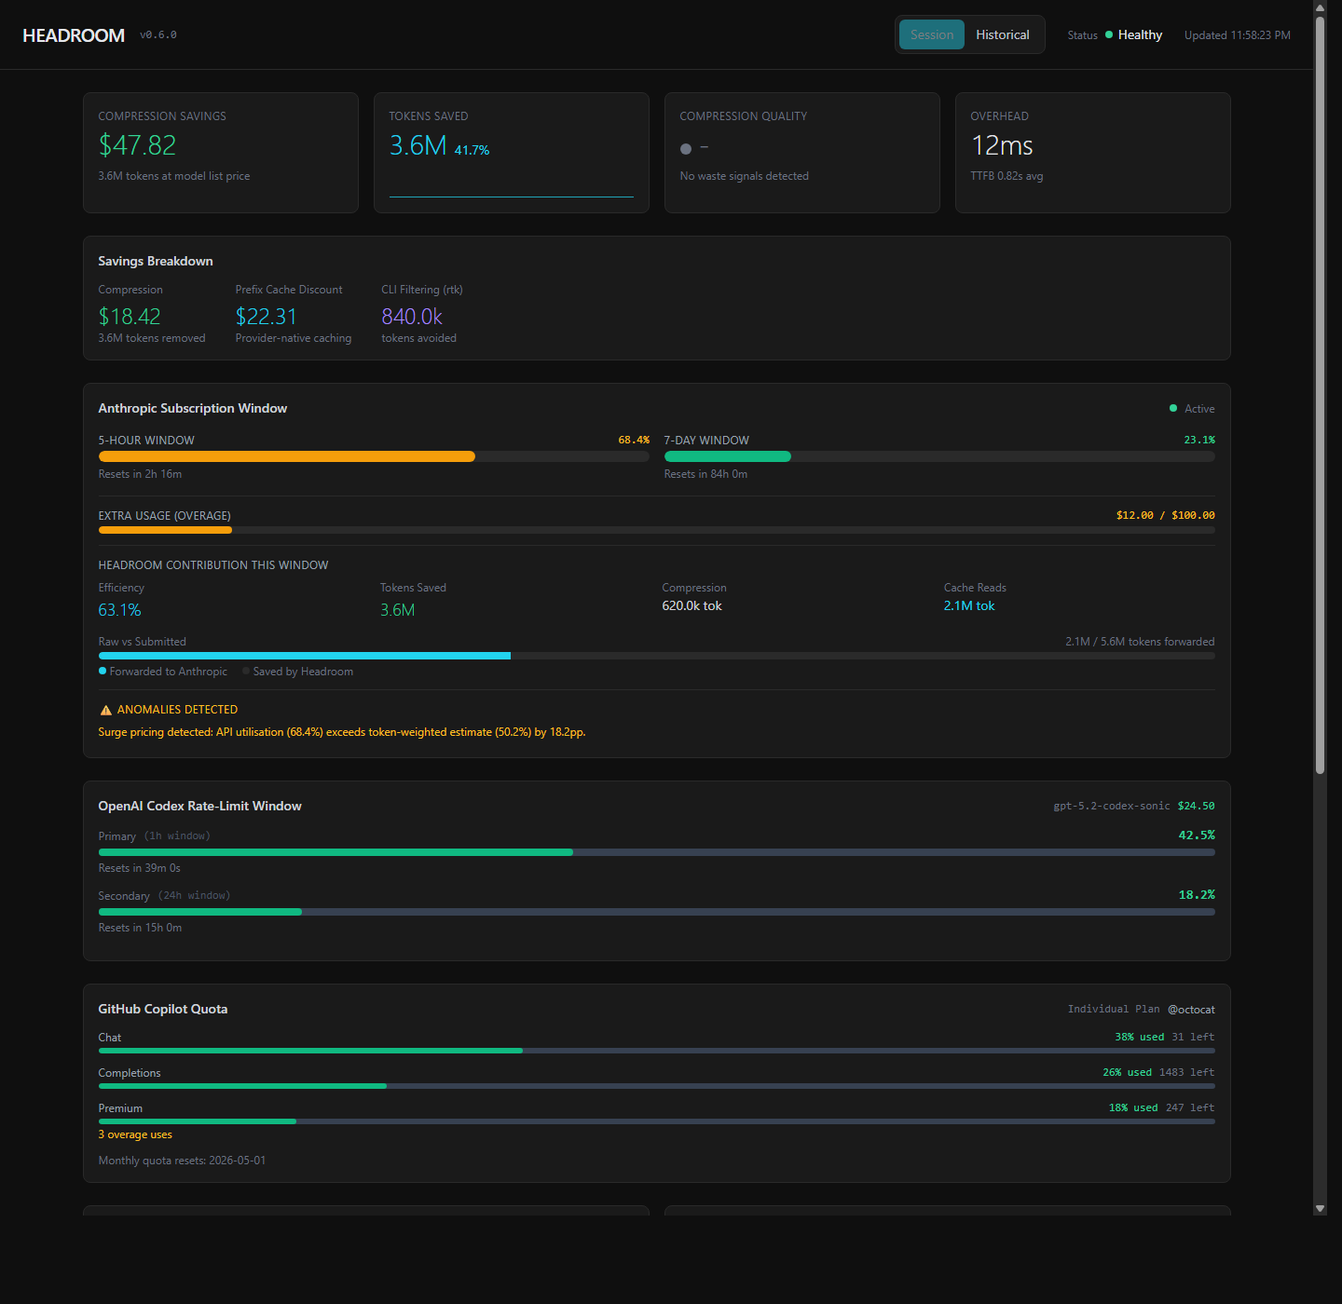
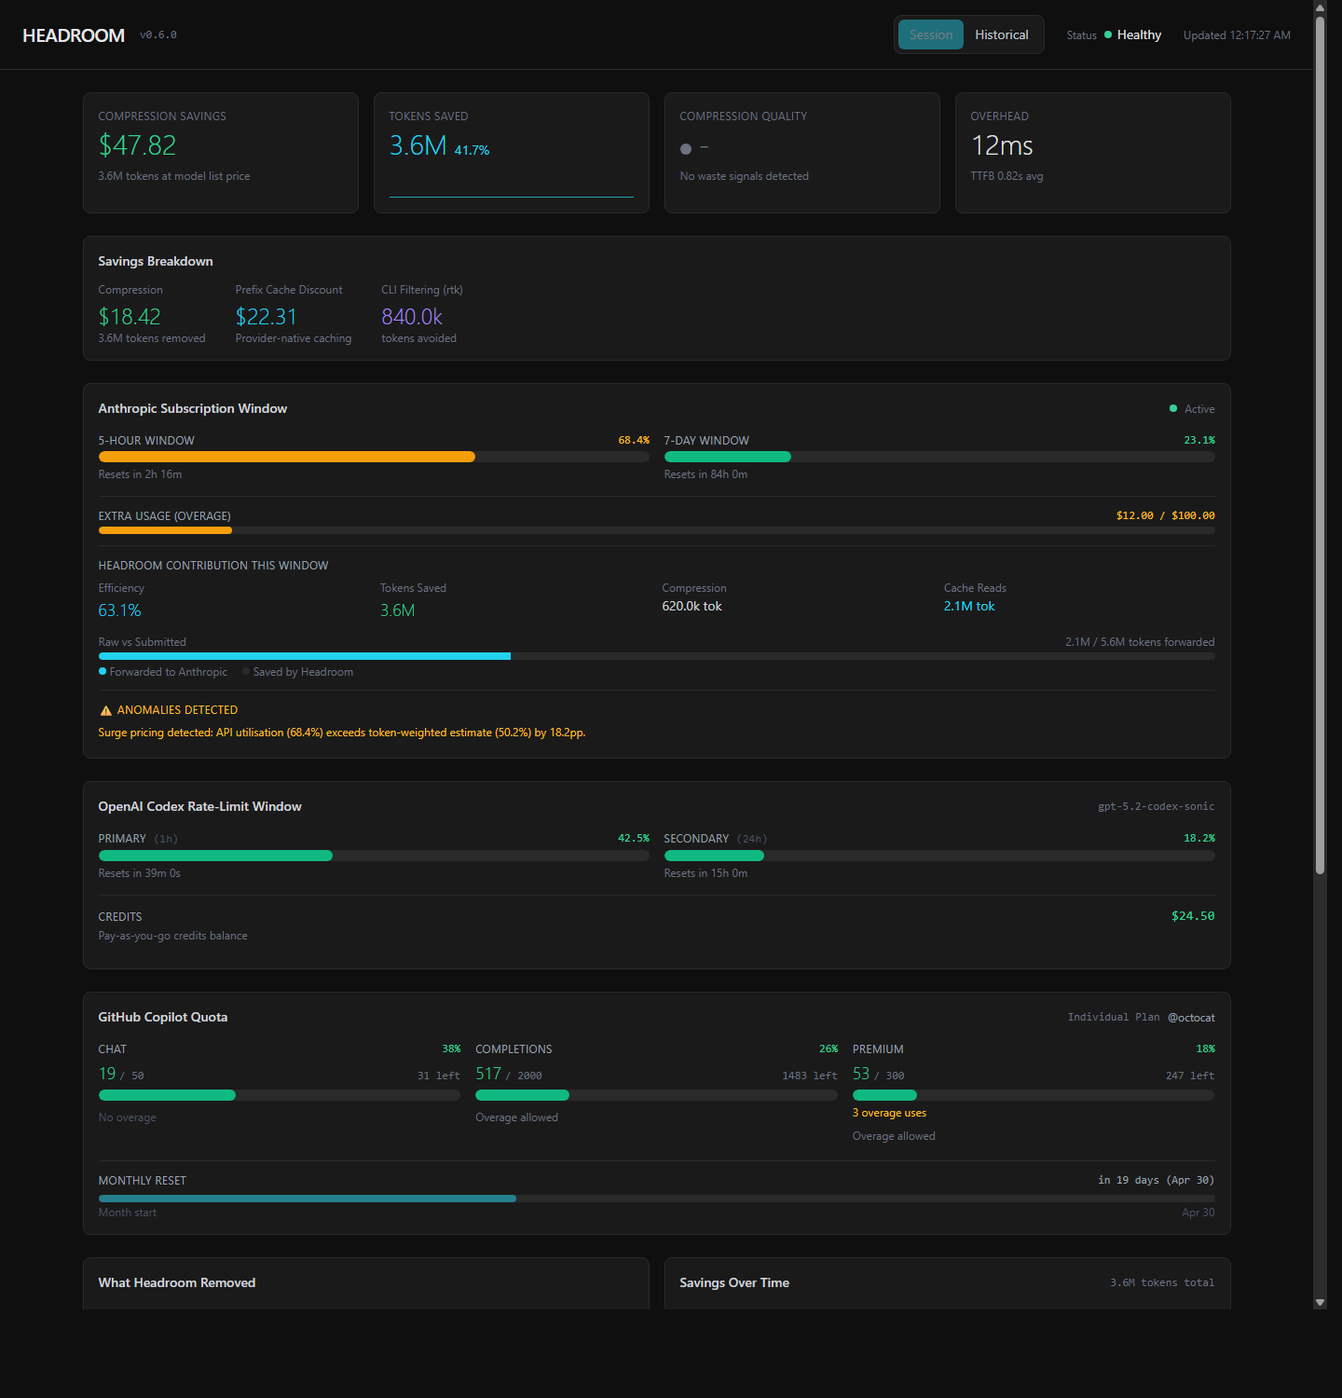
feat(dashboard): expand Codex and Copilot cards to match Anthropic card layout
- Codex: 2-column Primary/Secondary window grid (h-3 bars, window labels,
  reset countdowns); Credits moved to bordered section like Anthropic
  extra-usage panel
- Copilot: 3-column category grid (Chat/Completions/Premium) with big
  used/entitlement numbers, color-coded % bars, overage-permitted status
  per category; Monthly Reset section with month-elapsed progress bar and
  formatMonthlyReset() helper
- All three provider cards now share consistent visual language:
  uppercase section labels, h-3 progress bars, border-t dividers

diff --git a/headroom/dashboard/templates/dashboard.html b/headroom/dashboard/templates/dashboard.html
@@ -300,69 +300,80 @@
         <!-- Codex Rate-Limit Window -->
         <template x-if="stats.codex_rate_limits && stats.codex_rate_limits.primary">
             <div class="bg-surface rounded-lg p-4 border border-border mb-6">
-                <div class="flex justify-between items-center mb-3">
+                <div class="flex justify-between items-center mb-4">
                     <div class="text-sm font-medium text-gray-300">OpenAI Codex Rate-Limit Window</div>
-                    <div class="flex items-center gap-2">
-                        <template x-if="stats.codex_rate_limits.limit_name">
-                            <span class="text-xs text-gray-500 font-mono" x-text="stats.codex_rate_limits.limit_name"></span>
-                        </template>
-                        <template x-if="stats.codex_rate_limits.credits">
-                            <span class="text-xs font-mono"
-                                  :class="stats.codex_rate_limits.credits.unlimited ? 'text-purple-400' : stats.codex_rate_limits.credits.has_credits ? 'text-emerald-400' : 'text-red-400'"
-                                  x-text="stats.codex_rate_limits.credits.unlimited ? '∞ Unlimited' : stats.codex_rate_limits.credits.balance ? stats.codex_rate_limits.credits.balance : (stats.codex_rate_limits.credits.has_credits ? 'Credits' : 'No Credits')"></span>
-                        </template>
-                    </div>
-                </div>
-                <!-- Primary window -->
-                <div class="mb-3">
-                    <div class="flex justify-between items-center mb-1">
-                        <div class="flex items-center gap-2">
-                            <span class="text-xs text-gray-500">Primary</span>
-                            <template x-if="stats.codex_rate_limits.primary.window_label">
-                                <span class="text-xs text-gray-600 font-mono"
-                                      x-text="'(' + stats.codex_rate_limits.primary.window_label + ' window)'"></span>
-                            </template>
-                        </div>
-                        <span class="text-sm font-mono font-semibold"
-                              :class="(stats.codex_rate_limits.primary.used_percent||0) > 80 ? 'text-red-400' : (stats.codex_rate_limits.primary.used_percent||0) > 60 ? 'text-amber-400' : 'text-emerald-400'"
-                              x-text="(stats.codex_rate_limits.primary.used_percent||0).toFixed(1) + '%'"></span>
-                    </div>
-                    <div class="w-full bg-gray-700 rounded-full h-2">
-                        <div class="h-2 rounded-full transition-all duration-500"
-                             :class="(stats.codex_rate_limits.primary.used_percent||0) > 80 ? 'bg-red-500' : (stats.codex_rate_limits.primary.used_percent||0) > 60 ? 'bg-amber-500' : 'bg-emerald-500'"
-                             :style="'width: ' + Math.min(stats.codex_rate_limits.primary.used_percent||0, 100) + '%'"></div>
-                    </div>
-                    <template x-if="stats.codex_rate_limits.primary.seconds_until_reset !== null">
-                        <div class="text-xs text-gray-500 mt-1"
-                             x-text="'Resets in ' + formatResetTime(stats.codex_rate_limits.primary.seconds_until_reset)"></div>
+                    <template x-if="stats.codex_rate_limits.limit_name">
+                        <span class="text-xs text-gray-500 font-mono" x-text="stats.codex_rate_limits.limit_name"></span>
                     </template>
                 </div>
-                <!-- Secondary window (if present) -->
-                <template x-if="stats.codex_rate_limits.secondary">
-                    <div class="mb-3">
-                        <div class="flex justify-between items-center mb-1">
-                            <div class="flex items-center gap-2">
-                                <span class="text-xs text-gray-500">Secondary</span>
-                                <template x-if="stats.codex_rate_limits.secondary.window_label">
-                                    <span class="text-xs text-gray-600 font-mono"
-                                          x-text="'(' + stats.codex_rate_limits.secondary.window_label + ' window)'"></span>
+
+                <!-- Primary / Secondary window grid (mirrors Anthropic 5h/7d layout) -->
+                <div class="grid grid-cols-1 md:grid-cols-2 gap-4 mb-4">
+                    <!-- Primary window -->
+                    <div>
+                        <div class="flex justify-between text-xs mb-1">
+                            <span class="text-gray-400 uppercase tracking-wide">Primary
+                                <template x-if="stats.codex_rate_limits.primary.window_label">
+                                    <span class="text-gray-600 normal-case font-mono ml-1"
+                                          x-text="'(' + stats.codex_rate_limits.primary.window_label + ')'"></span>
                                 </template>
-                            </div>
-                            <span class="text-sm font-mono font-semibold"
-                                  :class="(stats.codex_rate_limits.secondary.used_percent||0) > 80 ? 'text-red-400' : (stats.codex_rate_limits.secondary.used_percent||0) > 60 ? 'text-amber-400' : 'text-emerald-400'"
-                                  x-text="(stats.codex_rate_limits.secondary.used_percent||0).toFixed(1) + '%'"></span>
+                            </span>
+                            <span class="tabular-nums font-mono"
+                                  :class="(stats.codex_rate_limits.primary.used_percent||0) > 80 ? 'text-red-400' : (stats.codex_rate_limits.primary.used_percent||0) > 60 ? 'text-amber-400' : 'text-emerald-400'"
+                                  x-text="(stats.codex_rate_limits.primary.used_percent||0).toFixed(1) + '%'"></span>
                         </div>
-                        <div class="w-full bg-gray-700 rounded-full h-2">
-                            <div class="h-2 rounded-full transition-all duration-500"
-                                 :class="(stats.codex_rate_limits.secondary.used_percent||0) > 80 ? 'bg-red-500' : (stats.codex_rate_limits.secondary.used_percent||0) > 60 ? 'bg-amber-500' : 'bg-emerald-500'"
-                                 :style="'width: ' + Math.min(stats.codex_rate_limits.secondary.used_percent||0, 100) + '%'"></div>
+                        <div class="w-full h-3 bg-border rounded-full overflow-hidden">
+                            <div class="h-full rounded-full transition-all duration-500"
+                                 :class="(stats.codex_rate_limits.primary.used_percent||0) > 80 ? 'bg-red-500' : (stats.codex_rate_limits.primary.used_percent||0) > 60 ? 'bg-amber-500' : 'bg-emerald-500'"
+                                 :style="'width: ' + Math.min(stats.codex_rate_limits.primary.used_percent||0, 100) + '%'"></div>
                         </div>
-                        <template x-if="stats.codex_rate_limits.secondary.seconds_until_reset !== null">
+                        <template x-if="stats.codex_rate_limits.primary.seconds_until_reset !== null">
                             <div class="text-xs text-gray-500 mt-1"
-                                 x-text="'Resets in ' + formatResetTime(stats.codex_rate_limits.secondary.seconds_until_reset)"></div>
+                                 x-text="'Resets in ' + formatResetTime(stats.codex_rate_limits.primary.seconds_until_reset)"></div>
+                        </template>
+                    </div>
+                    <!-- Secondary window -->
+                    <template x-if="stats.codex_rate_limits.secondary">
+                        <div>
+                            <div class="flex justify-between text-xs mb-1">
+                                <span class="text-gray-400 uppercase tracking-wide">Secondary
+                                    <template x-if="stats.codex_rate_limits.secondary.window_label">
+                                        <span class="text-gray-600 normal-case font-mono ml-1"
+                                              x-text="'(' + stats.codex_rate_limits.secondary.window_label + ')'"></span>
+                                    </template>
+                                </span>
+                                <span class="tabular-nums font-mono"
+                                      :class="(stats.codex_rate_limits.secondary.used_percent||0) > 80 ? 'text-red-400' : (stats.codex_rate_limits.secondary.used_percent||0) > 60 ? 'text-amber-400' : 'text-emerald-400'"
+                                      x-text="(stats.codex_rate_limits.secondary.used_percent||0).toFixed(1) + '%'"></span>
+                            </div>
+                            <div class="w-full h-3 bg-border rounded-full overflow-hidden">
+                                <div class="h-full rounded-full transition-all duration-500"
+                                     :class="(stats.codex_rate_limits.secondary.used_percent||0) > 80 ? 'bg-red-500' : (stats.codex_rate_limits.secondary.used_percent||0) > 60 ? 'bg-amber-500' : 'bg-emerald-500'"
+                                     :style="'width: ' + Math.min(stats.codex_rate_limits.secondary.used_percent||0, 100) + '%'"></div>
+                            </div>
+                            <template x-if="stats.codex_rate_limits.secondary.seconds_until_reset !== null">
+                                <div class="text-xs text-gray-500 mt-1"
+                                     x-text="'Resets in ' + formatResetTime(stats.codex_rate_limits.secondary.seconds_until_reset)"></div>
+                            </template>
+                        </div>
+                    </template>
+                </div>
+
+                <!-- Credits section (mirrors Anthropic extra-usage section) -->
+                <template x-if="stats.codex_rate_limits.credits">
+                    <div class="border-t border-border pt-3 mb-3">
+                        <div class="flex justify-between items-center">
+                            <span class="text-xs text-gray-400 uppercase tracking-wide">Credits</span>
+                            <span class="text-sm font-mono font-medium"
+                                  :class="stats.codex_rate_limits.credits.unlimited ? 'text-purple-400' : stats.codex_rate_limits.credits.has_credits ? 'text-emerald-400' : 'text-red-400'"
+                                  x-text="stats.codex_rate_limits.credits.unlimited ? '∞ Unlimited' : stats.codex_rate_limits.credits.balance ? stats.codex_rate_limits.credits.balance : (stats.codex_rate_limits.credits.has_credits ? 'Active' : 'No Credits')"></span>
+                        </div>
+                        <template x-if="stats.codex_rate_limits.credits.balance && !stats.codex_rate_limits.credits.unlimited">
+                            <div class="text-xs text-gray-500 mt-0.5">Pay-as-you-go credits balance</div>
                         </template>
                     </div>
                 </template>
+
                 <!-- Promo message -->
                 <template x-if="stats.codex_rate_limits.promo_message">
                     <div class="mt-2 text-xs text-blue-400 italic"
@@ -371,10 +382,10 @@
             </div>
         </template>
 
-        <!-- GitHub Copilot Quota panel -->
+        <!-- GitHub Copilot Quota -->
         <template x-if="stats.copilot_quota && stats.copilot_quota.latest">
             <div class="bg-surface rounded-lg p-4 border border-border mb-6">
-                <div class="flex justify-between items-center mb-3">
+                <div class="flex justify-between items-center mb-4">
                     <div class="text-sm font-medium text-gray-300">GitHub Copilot Quota</div>
                     <div class="flex items-center gap-2">
                         <template x-if="stats.copilot_quota.latest.copilot_plan">
@@ -386,47 +397,83 @@
                     </div>
                 </div>
 
-                <!-- Per-category quota bars -->
-                <template x-for="[catKey, catLabel] in [['chat', 'Chat'], ['completions', 'Completions'], ['premium_interactions', 'Premium']]" :key="catKey">
-                    <template x-if="stats.copilot_quota.latest.categories[catKey]">
-                        <div class="mb-3">
-                            <div class="flex justify-between items-center mb-1">
-                                <span class="text-xs text-gray-400" x-text="catLabel"></span>
-                                <div class="flex items-center gap-2">
+                <!-- Per-category quota grid (3 columns, mirrors Anthropic 5h/7d structure) -->
+                <div class="grid grid-cols-1 md:grid-cols-3 gap-4 mb-4">
+                    <template x-for="[catKey, catLabel] in [['chat','Chat'],['completions','Completions'],['premium_interactions','Premium']]" :key="catKey">
+                        <template x-if="stats.copilot_quota.latest.categories[catKey]">
+                            <div>
+                                <div class="flex justify-between text-xs mb-1">
+                                    <span class="text-gray-400 uppercase tracking-wide" x-text="catLabel"></span>
                                     <template x-if="stats.copilot_quota.latest.categories[catKey].unlimited">
-                                        <span class="text-xs text-purple-400">∞ Unlimited</span>
+                                        <span class="text-purple-400 font-mono">∞</span>
                                     </template>
                                     <template x-if="!stats.copilot_quota.latest.categories[catKey].unlimited">
-                                        <span class="text-xs font-mono"
-                                            :class="(stats.copilot_quota.latest.categories[catKey].used_percent||0) > 80 ? 'text-red-400' : (stats.copilot_quota.latest.categories[catKey].used_percent||0) > 50 ? 'text-amber-400' : 'text-emerald-400'"
-                                            x-text="(stats.copilot_quota.latest.categories[catKey].used_percent||0).toFixed(0) + '% used'"></span>
+                                        <span class="tabular-nums font-mono"
+                                              :class="(stats.copilot_quota.latest.categories[catKey].used_percent||0) > 80 ? 'text-red-400' : (stats.copilot_quota.latest.categories[catKey].used_percent||0) > 50 ? 'text-amber-400' : 'text-emerald-400'"
+                                              x-text="(stats.copilot_quota.latest.categories[catKey].used_percent||0).toFixed(0) + '%'"></span>
                                     </template>
-                                    <template x-if="stats.copilot_quota.latest.categories[catKey].remaining !== null && stats.copilot_quota.latest.categories[catKey].remaining !== undefined && !stats.copilot_quota.latest.categories[catKey].unlimited">
+                                </div>
+                                <!-- Used / entitlement count (big number like Anthropic window) -->
+                                <template x-if="!stats.copilot_quota.latest.categories[catKey].unlimited">
+                                    <div class="flex items-baseline gap-1 mb-1">
+                                        <span class="text-lg font-light tabular-nums"
+                                              :class="(stats.copilot_quota.latest.categories[catKey].used_percent||0) > 80 ? 'text-red-400' : (stats.copilot_quota.latest.categories[catKey].used_percent||0) > 50 ? 'text-amber-400' : 'text-emerald-400'"
+                                              x-text="stats.copilot_quota.latest.categories[catKey].used ?? '-'"></span>
                                         <span class="text-xs text-gray-500 font-mono"
-                                            x-text="stats.copilot_quota.latest.categories[catKey].remaining + ' left'"></span>
-                                    </template>
+                                              x-text="'/ ' + (stats.copilot_quota.latest.categories[catKey].entitlement ?? '∞')"></span>
+                                        <span class="text-xs text-gray-500 ml-auto font-mono"
+                                              x-text="(stats.copilot_quota.latest.categories[catKey].remaining ?? '') + ' left'"></span>
+                                    </div>
+                                </template>
+                                <template x-if="stats.copilot_quota.latest.categories[catKey].unlimited">
+                                    <div class="text-lg font-light text-purple-400 mb-1">Unlimited</div>
+                                </template>
+                                <!-- Progress bar -->
+                                <template x-if="!stats.copilot_quota.latest.categories[catKey].unlimited">
+                                    <div class="w-full h-3 bg-border rounded-full overflow-hidden">
+                                        <div class="h-full rounded-full transition-all duration-500"
+                                             :class="(stats.copilot_quota.latest.categories[catKey].used_percent||0) > 80 ? 'bg-red-500' : (stats.copilot_quota.latest.categories[catKey].used_percent||0) > 50 ? 'bg-amber-500' : 'bg-emerald-500'"
+                                             :style="'width: ' + Math.min(stats.copilot_quota.latest.categories[catKey].used_percent||0, 100) + '%'"></div>
+                                    </div>
+                                </template>
+                                <!-- Overage info -->
+                                <template x-if="stats.copilot_quota.latest.categories[catKey].overage_count > 0">
+                                    <div class="text-xs text-amber-400 mt-1"
+                                         x-text="stats.copilot_quota.latest.categories[catKey].overage_count + ' overage uses'"></div>
+                                </template>
+                                <div class="mt-1">
+                                    <span class="text-xs"
+                                          :class="stats.copilot_quota.latest.categories[catKey].overage_permitted ? 'text-gray-500' : 'text-gray-600'"
+                                          x-text="stats.copilot_quota.latest.categories[catKey].overage_permitted ? 'Overage allowed' : 'No overage'"></span>
                                 </div>
                             </div>
-                            <template x-if="!stats.copilot_quota.latest.categories[catKey].unlimited">
-                                <div class="h-1.5 bg-gray-700 rounded-full overflow-hidden">
-                                    <div class="h-full rounded-full transition-all duration-500"
-                                         :class="(stats.copilot_quota.latest.categories[catKey].used_percent||0) > 80 ? 'bg-red-500' : (stats.copilot_quota.latest.categories[catKey].used_percent||0) > 50 ? 'bg-amber-500' : 'bg-emerald-500'"
-                                         :style="'width: ' + Math.min(stats.copilot_quota.latest.categories[catKey].used_percent||0, 100) + '%'"></div>
-                                </div>
-                            </template>
-                            <template x-if="stats.copilot_quota.latest.categories[catKey].overage_count > 0">
-                                <div class="text-xs text-amber-400 mt-0.5"
-                                     x-text="stats.copilot_quota.latest.categories[catKey].overage_count + ' overage uses'"></div>
-                            </template>
+                        </template>
+                    </template>
+                </div>
+
+                <!-- Monthly reset section (mirrors Anthropic extra-usage border section) -->
+                <div class="border-t border-border pt-3">
+                    <div class="flex justify-between text-xs mb-2">
+                        <span class="text-gray-400 uppercase tracking-wide">Monthly Reset</span>
+                        <template x-if="stats.copilot_quota.latest.quota_reset_date_utc">
+                            <span class="text-gray-400 font-mono"
+                                  x-text="formatMonthlyReset(stats.copilot_quota.latest.quota_reset_date_utc)"></span>
+                        </template>
+                    </div>
+                    <template x-if="stats.copilot_quota.latest.quota_reset_date_utc">
+                        <div>
+                            <!-- Month-elapsed bar: filled = time elapsed, empty = time remaining -->
+                            <div class="w-full h-2 bg-border rounded-full overflow-hidden">
+                                <div class="h-full bg-accent/50 rounded-full transition-all duration-500"
+                                     :style="'width: ' + (100 - Math.min(100, Math.max(0, (new Date(stats.copilot_quota.latest.quota_reset_date_utc) - new Date()) / (30 * 86400000) * 100))) + '%'"></div>
+                            </div>
+                            <div class="flex justify-between text-xs text-gray-600 mt-0.5">
+                                <span>Month start</span>
+                                <span x-text="new Date(stats.copilot_quota.latest.quota_reset_date_utc).toLocaleDateString(undefined, {month:'short', day:'numeric'})"></span>
+                            </div>
                         </div>
                     </template>
-                </template>
-
-                <!-- Reset date -->
-                <template x-if="stats.copilot_quota.latest.quota_reset_date_utc">
-                    <div class="text-xs text-gray-500 mt-2"
-                         x-text="'Monthly quota resets: ' + stats.copilot_quota.latest.quota_reset_date_utc"></div>
-                </template>
+                </div>
             </div>
         </template>
 
@@ -1235,6 +1282,15 @@
                         month: 'short',
                         day: 'numeric',
                     });
+                },
+
+                formatMonthlyReset(dateStr) {
+                    if (!dateStr) return '-';
+                    const d = new Date(dateStr);
+                    const days = Math.ceil((d - new Date()) / 86400000);
+                    if (days <= 0) return 'today';
+                    if (days === 1) return 'tomorrow';
+                    return 'in ' + days + ' days (' + d.toLocaleDateString(undefined, {month: 'short', day: 'numeric'}) + ')';
                 },
 
                 formatMonth(ts) {
